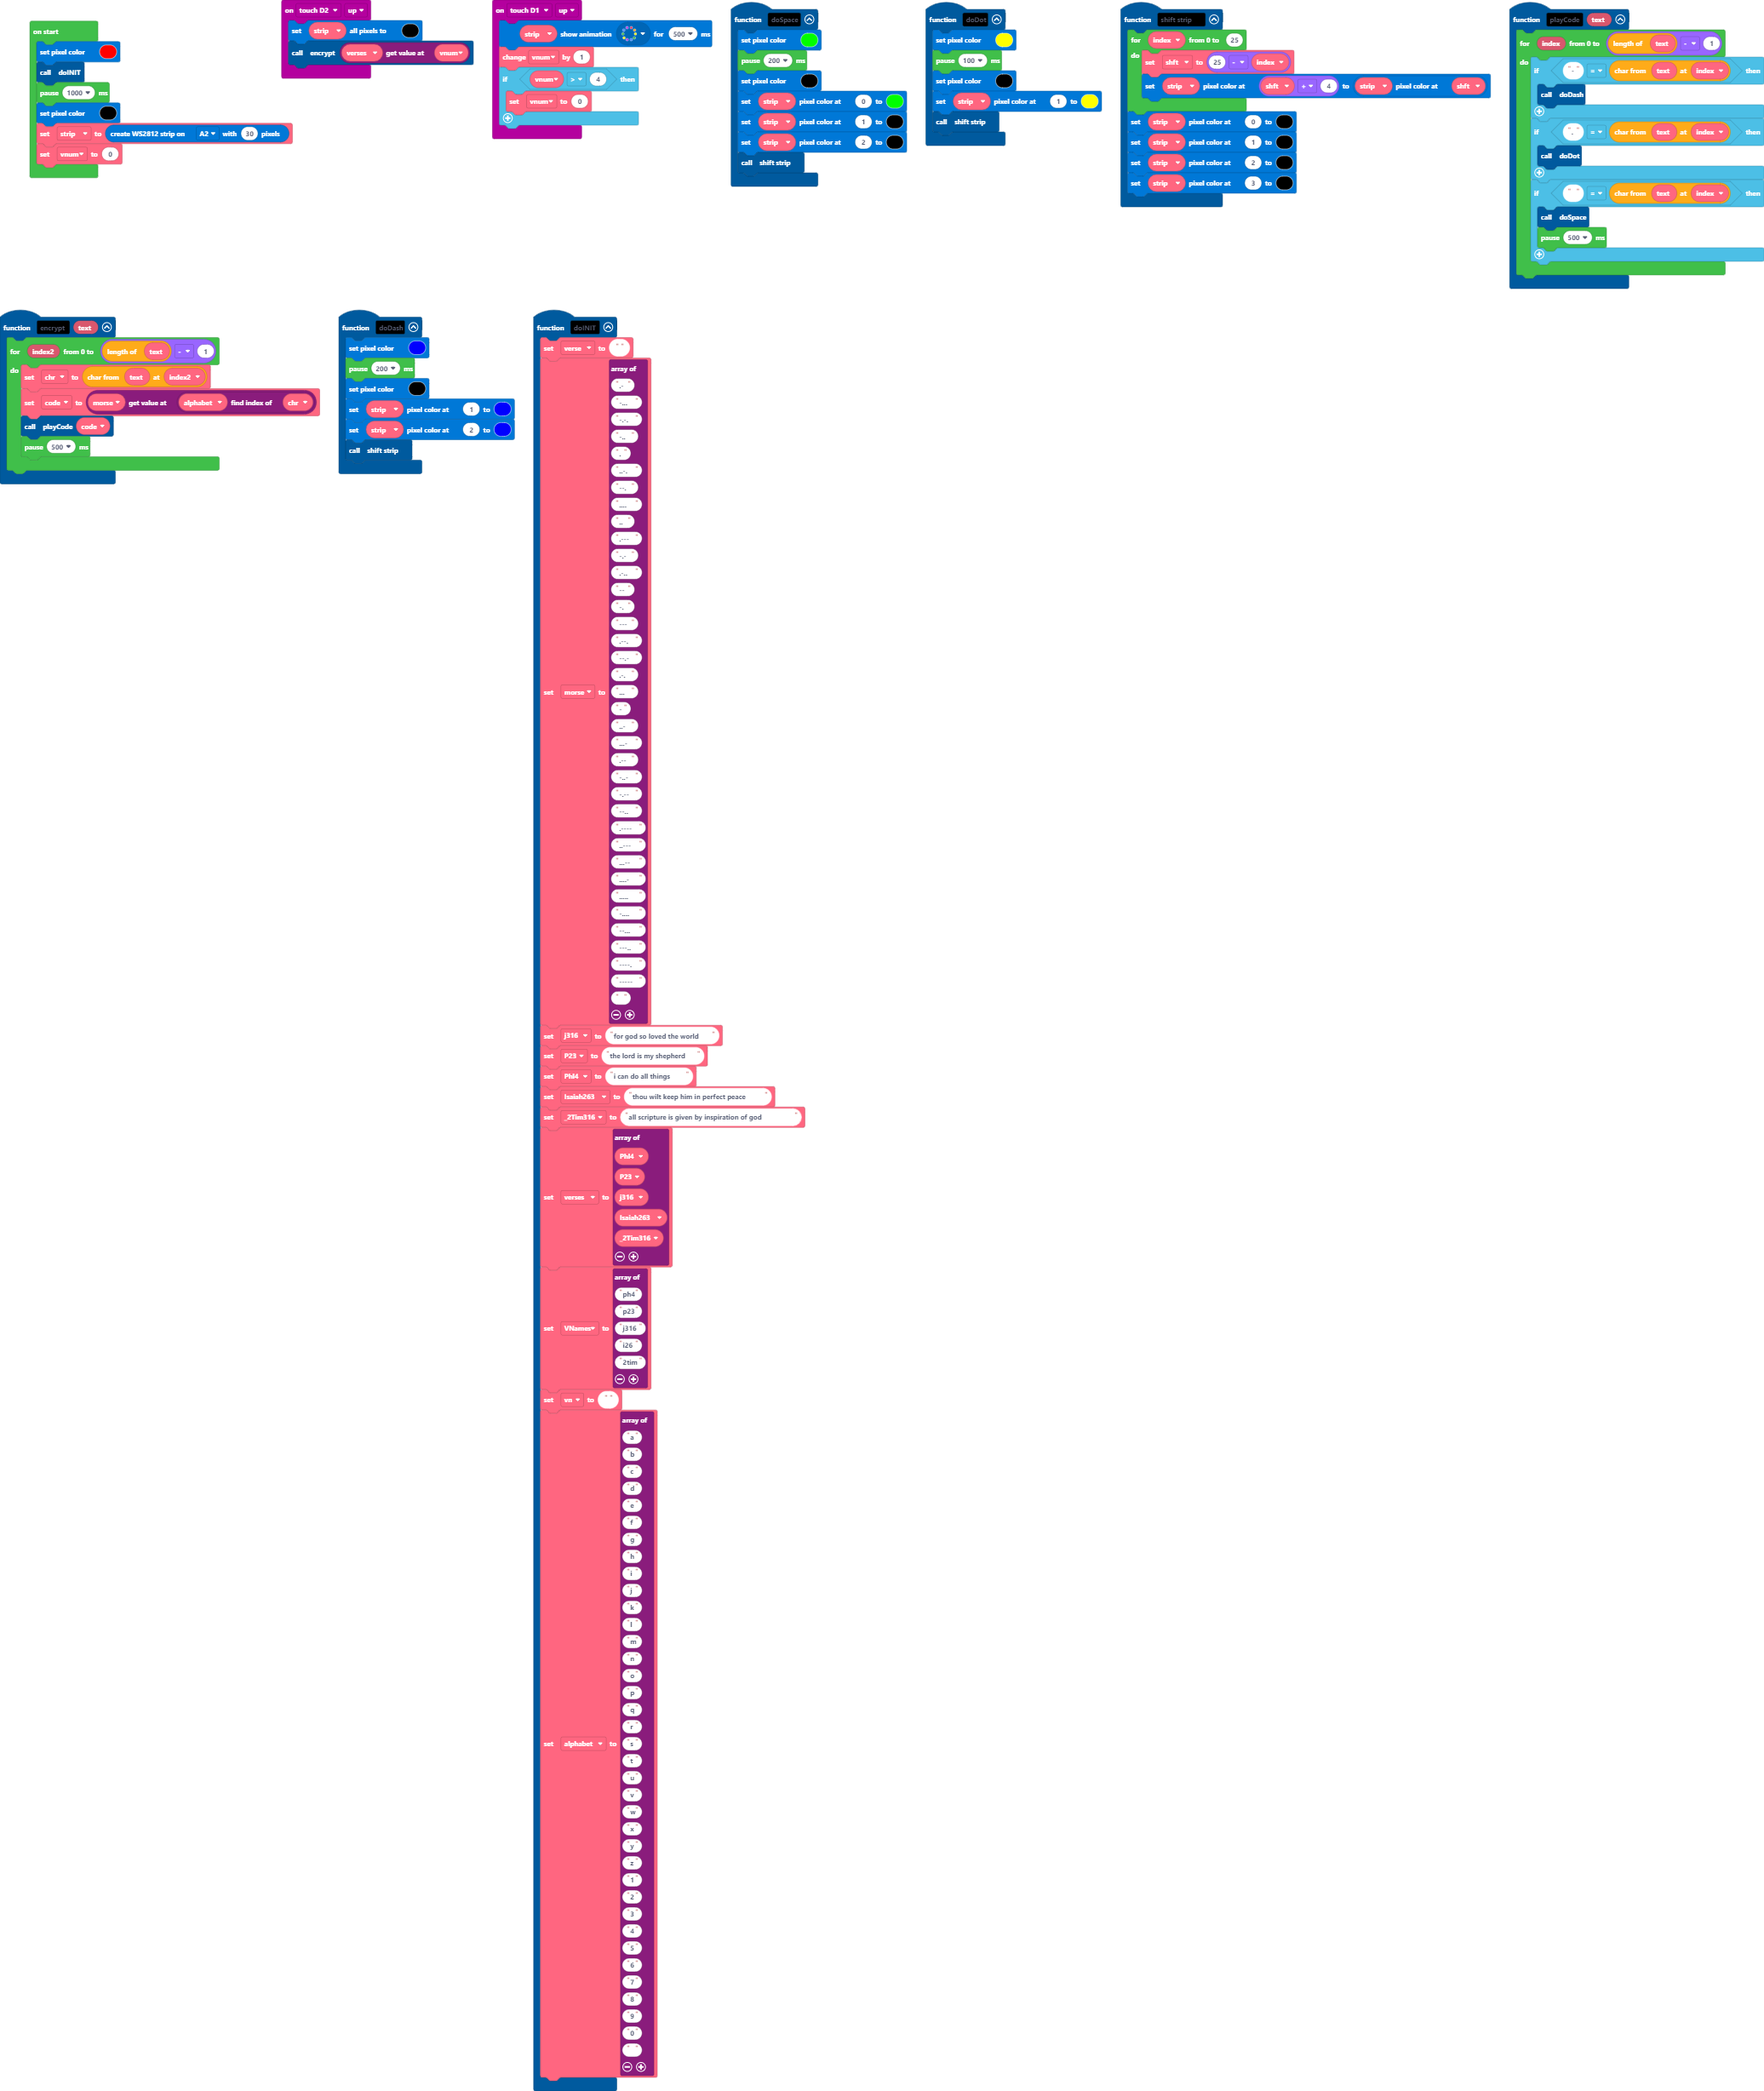
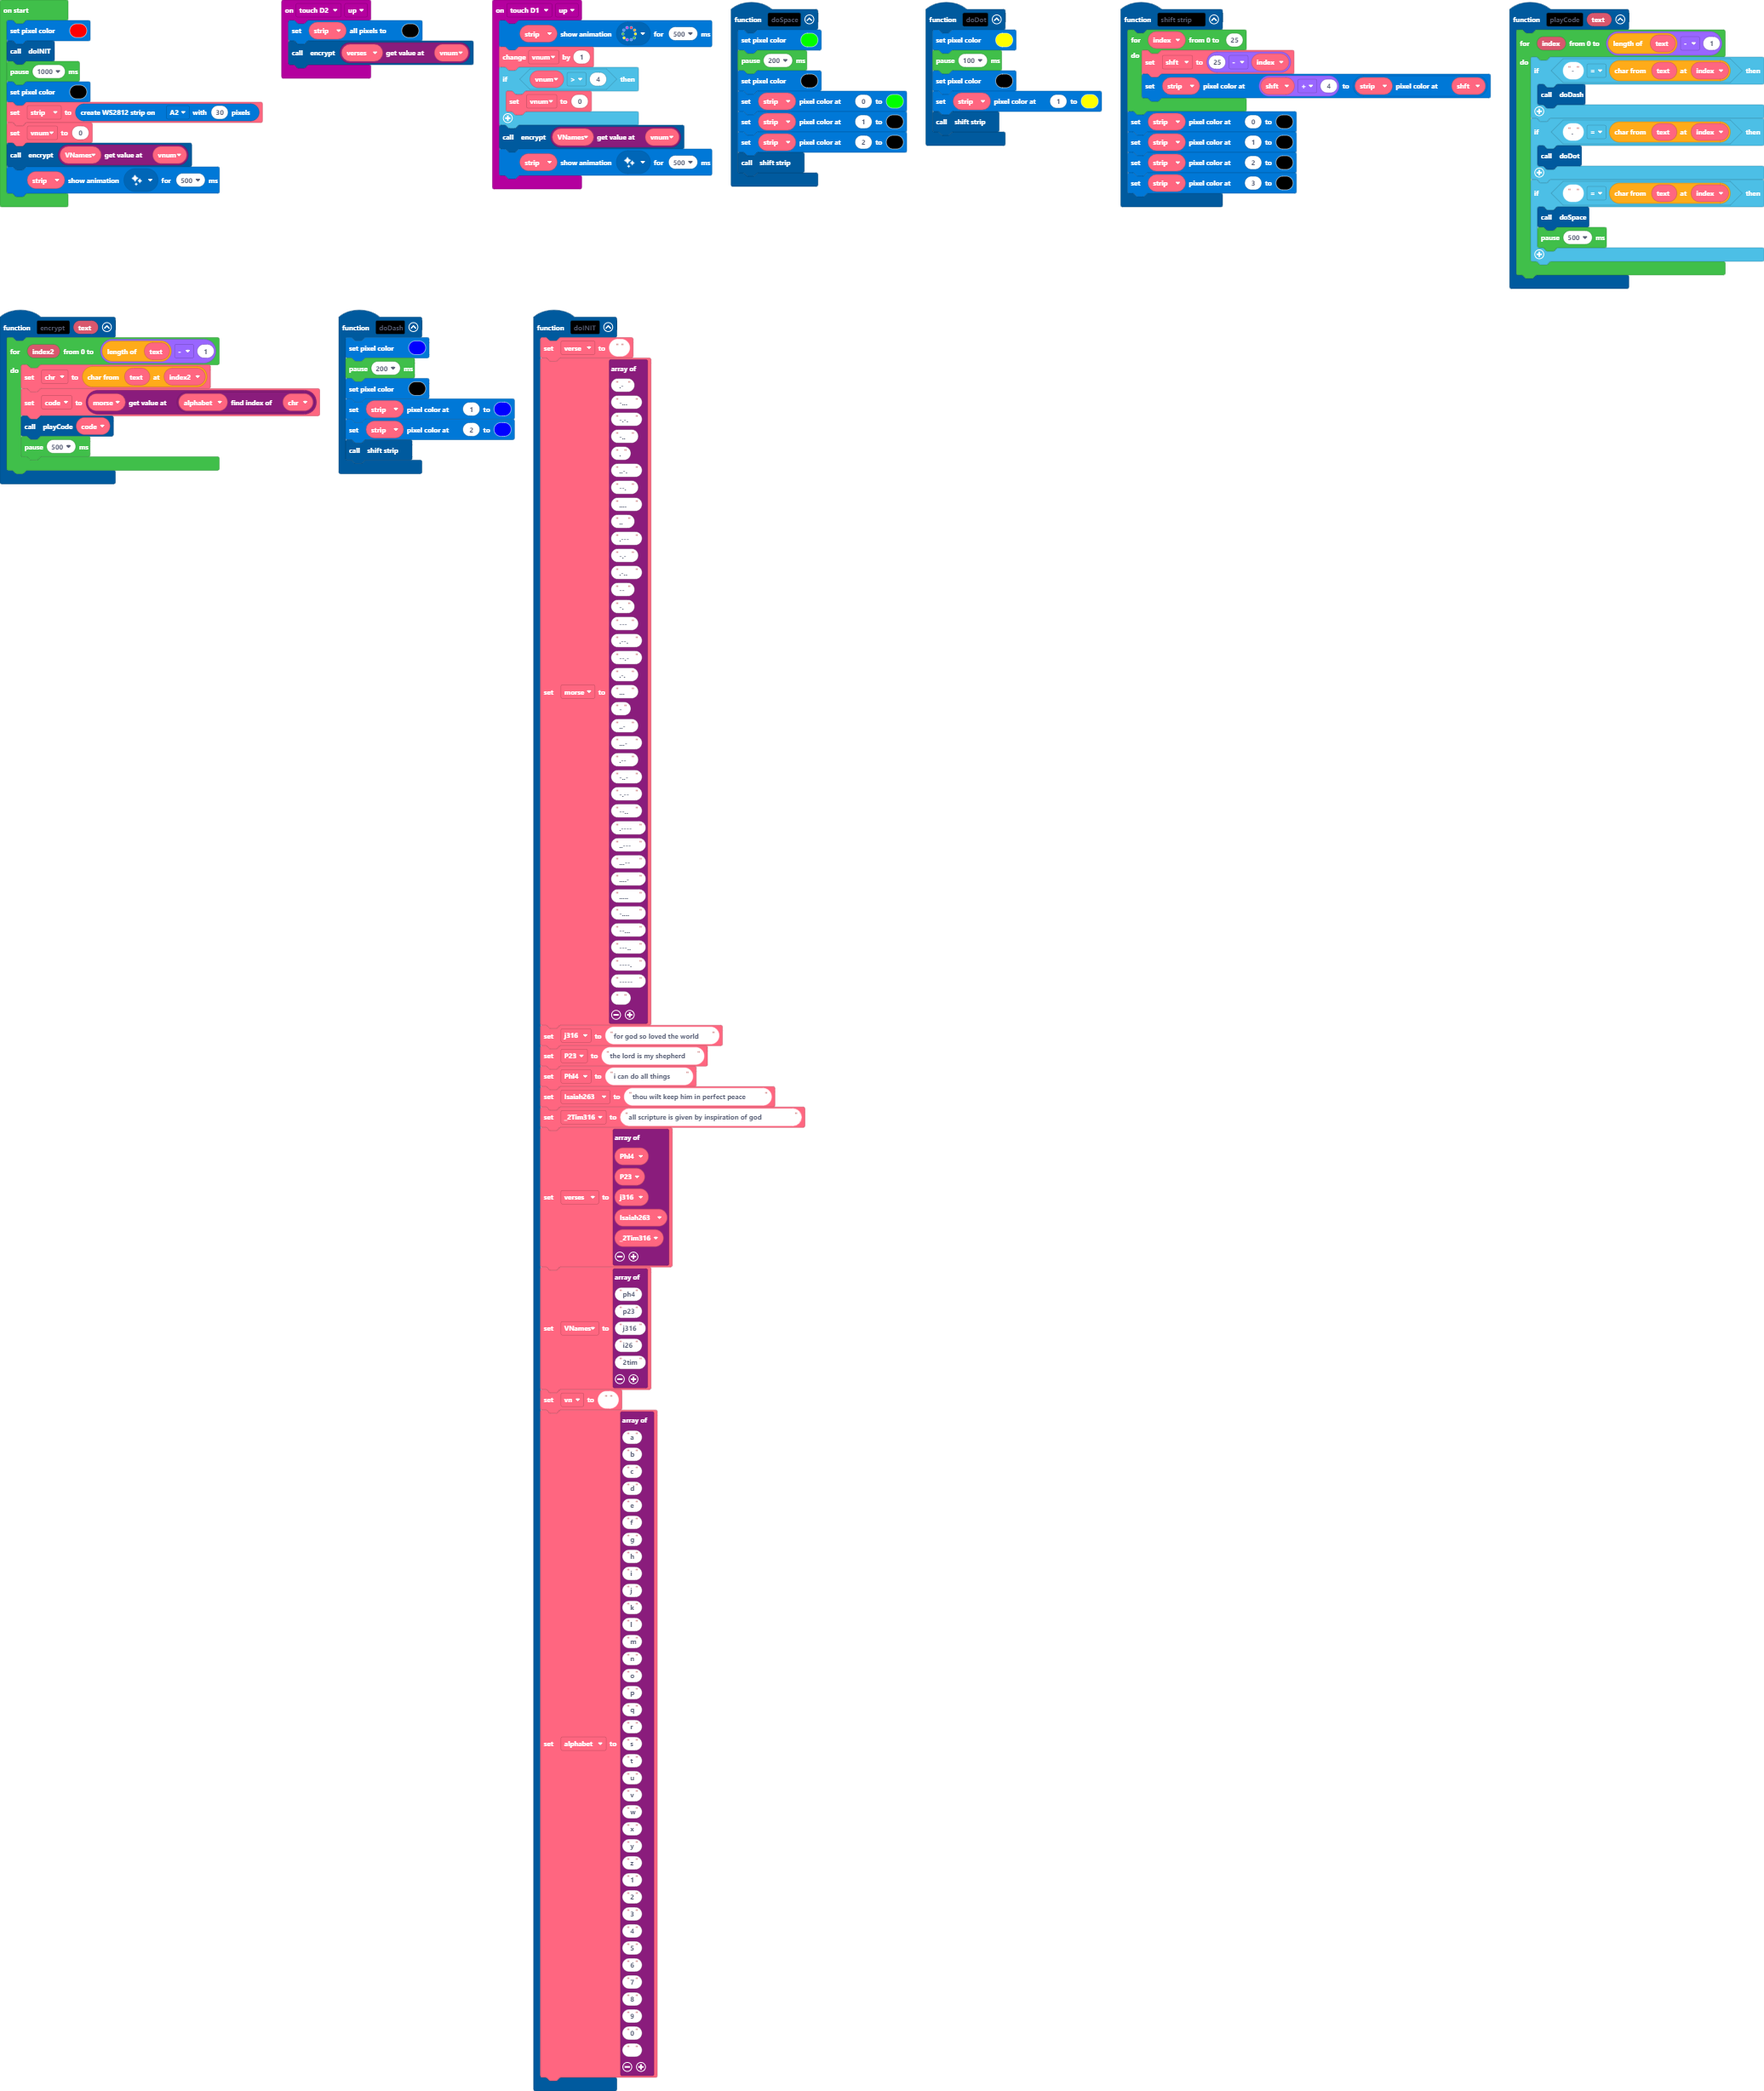
Update main.blocks, main.ts

Changed region(s): [[0.0, 0.0, 0.1544, 0.1238], [0.278, 0.0619, 0.4015, 0.0928]]

diff --git a/main.ts b/main.ts
@@ -8,6 +8,8 @@ input.touchD1.onEvent(ButtonEvent.Up, function () {
     if (vnum > 4) {
         vnum = 0
     }
+    encrypt(VNames[vnum])
+    strip.showAnimation(light.sparkleAnimation, 500)
 })
 function doDash () {
     pixel.setColor(0x0000ff)
@@ -167,7 +169,6 @@ function doSpace () {
     shift_strip()
 }
 let vn = ""
-let VNames: string[] = []
 let _2Tim316 = ""
 let Isaiah263 = ""
 let Phl4 = ""
@@ -180,6 +181,7 @@ let morse: string[] = []
 let code = ""
 let chr = ""
 let verses: string[] = []
+let VNames: string[] = []
 let vnum = 0
 let strip: light.NeoPixelStrip = null
 pixel.setColor(0xff0000)
@@ -188,3 +190,5 @@ pause(1000)
 pixel.setColor(0x000000)
 strip = light.createStrip(pins.A2, 30)
 vnum = 0
+encrypt(VNames[vnum])
+strip.showAnimation(light.sparkleAnimation, 500)
